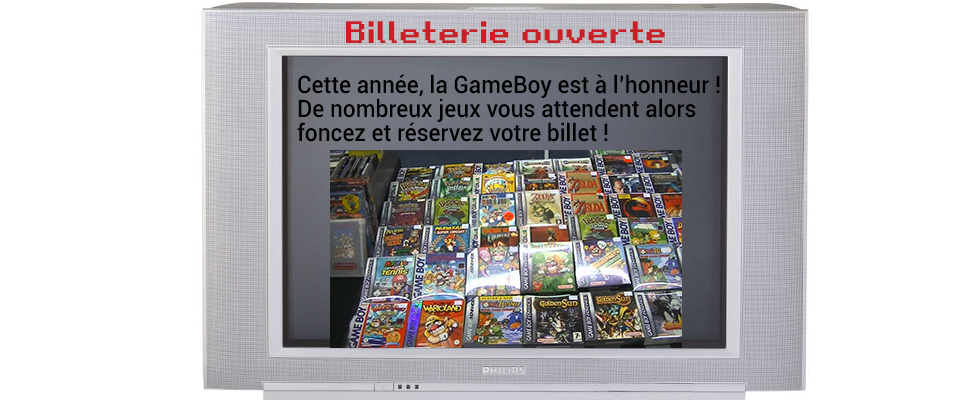
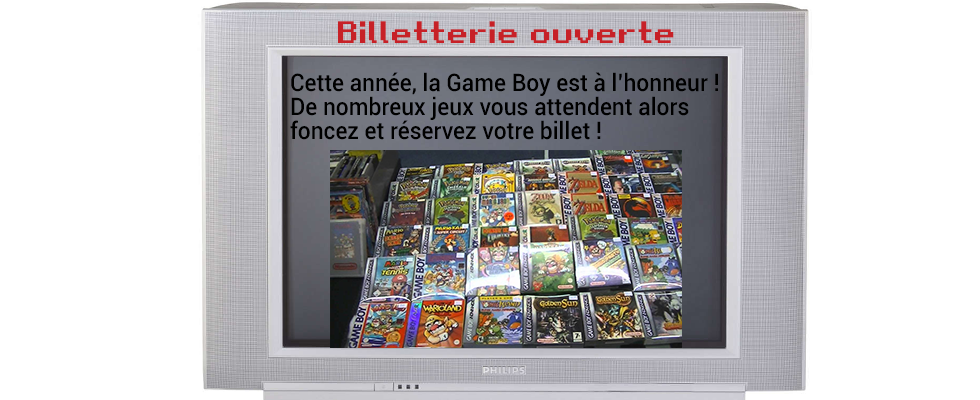
Faute billetterie, corrigée.

Changed region(s): [[0.2755, 0.18, 0.7347, 0.36], [0.3367, 0.03, 0.7041, 0.12]]

diff --git a/infospratiques.html b/infospratiques.html
@@ -84,7 +84,7 @@
         <div class="tab-button-outer">
             <ul id="tab-button">
               <li><a href="#tab01">Accès</a></li>
-              <li><a href="#tab02">Billeterie</a></li>
+              <li><a href="#tab02">Billetterie</a></li>
               <li><a href="#tab03">Contacts</a></li>
               <li><a href="#tab04">FAQ</a></li>
             </ul>
@@ -92,7 +92,7 @@
         <div class="tab-select-outer">
             <select id="tab-select">
                 <option value="#tab01">Accès</option>
-                <option value="#tab02">Billeterie</option>
+                <option value="#tab02">Billetterie</option>
                 <option value="#tab03">Contacts</option>
                 <option value="#tab04">FAQ</option>
             </select>
